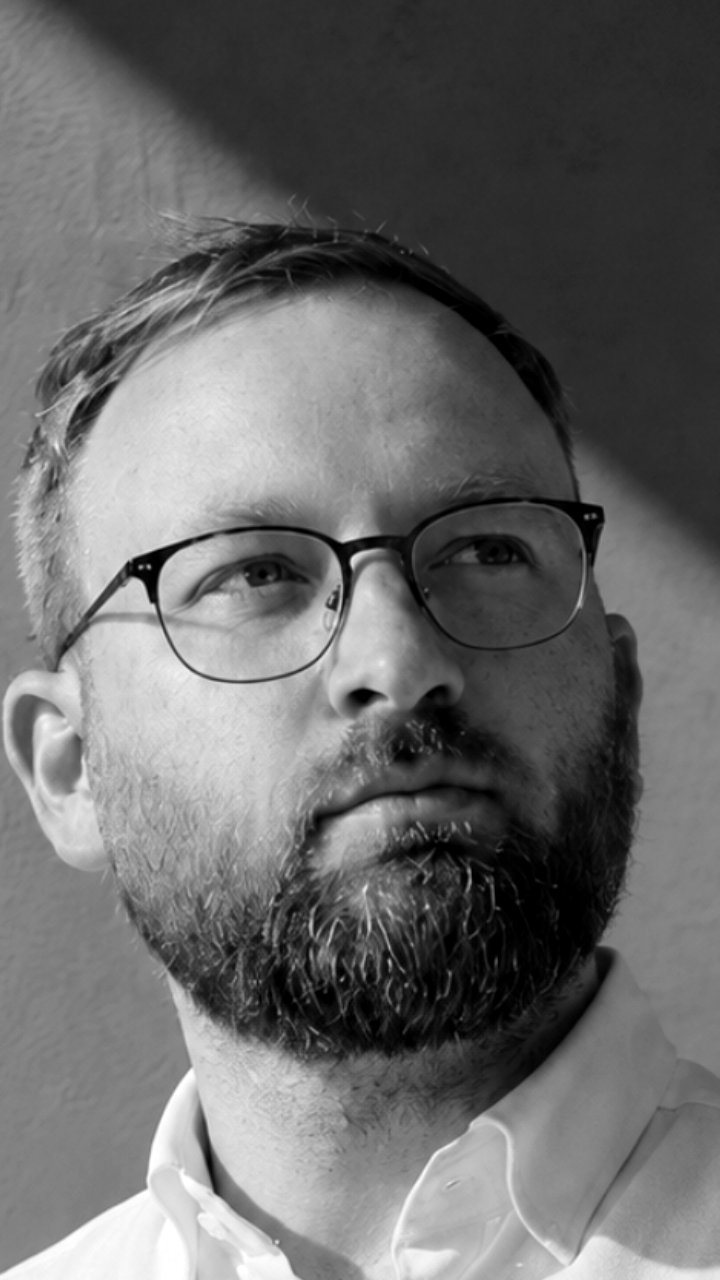
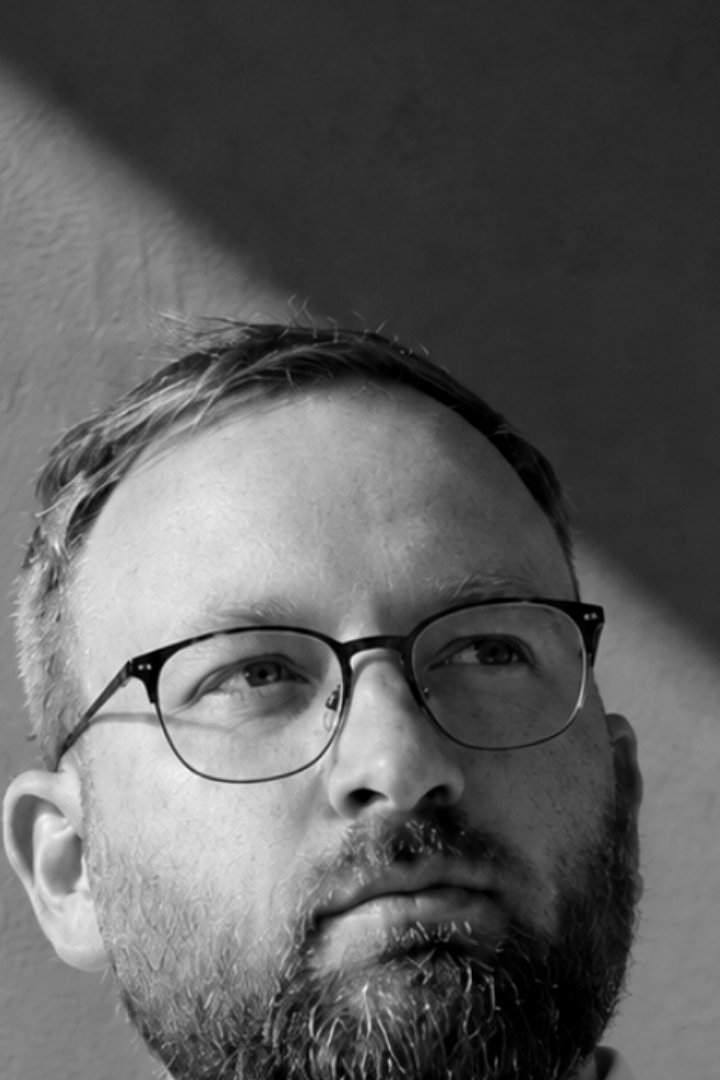
Rebuild the Work hero as a bold bleed-photo composition
Recrop the portrait tighter on the face, bleed it to the page edge
behind the headline, and cap it with a solid accent ledge. Add a
closing caption strip below the hero echoing the reference layout,
and remove a large block of dead CSS left over from earlier hero
iterations (.hero, .hero-layout, .method, .contact, .experience-box,
.tags and friends) that nothing in the markup referenced anymore.

Claude-Session: https://claude.ai/code/session_017bqL8nZXtw5Hbnjdu36omG

diff --git a/styles.css b/styles.css
@@ -16,37 +16,17 @@ nav{display:flex;gap:36px;font-size:14px}
 nav a{padding:12px 0}
 nav a:hover,nav a.active{color:var(--blue)}
 .meta{font:12px/1.5 var(--mono);letter-spacing:.055em;text-transform:uppercase;color:var(--muted)}
-.hero{padding:28px 0 0}
-.hero-top{display:flex;justify-content:space-between;gap:20px;padding-bottom:26px}
-.hero-layout{display:grid;grid-template-columns:minmax(0,.82fr) minmax(0,1.18fr);grid-template-rows:auto auto;gap:0 58px;align-items:start}
-.intro{max-width:520px;font-size:18px;line-height:1.65;color:#50514f;margin:0}
 .actions{display:flex;align-items:center;gap:28px;flex-wrap:wrap;margin-top:28px}
 .button{display:inline-flex;align-items:center;justify-content:space-between;gap:22px;min-height:48px;padding:13px 22px;background:var(--ink);color:white;font-size:14px;transition:background .2s,transform .2s}
 .button:hover{background:var(--blue);transform:translateY(-2px)}
 .text-link{font-size:14px;border-bottom:1px solid #92928d;padding:5px 0}
 .text-link:hover{color:var(--blue);border-color:var(--blue)}
-.hero-caption{display:flex;justify-content:space-between;gap:20px;padding:22px 0 32px;font:12px/1.5 var(--mono);text-transform:uppercase;letter-spacing:.045em}
+.hero-caption{display:flex;justify-content:space-between;gap:20px;border-top:1px solid var(--line);padding:22px 0 32px;font:12px/1.5 var(--mono);text-transform:uppercase;letter-spacing:.045em}
 .hero-caption span:last-child{color:var(--muted)}
 .section{padding:66px 0;border-top:1px solid var(--line)}
 .section-head{display:flex;justify-content:space-between;align-items:baseline;gap:24px;margin-bottom:34px}
 .section-head h2{font-size:clamp(30px,3.4vw,42px);line-height:1.08;letter-spacing:-.045em;font-weight:700;margin:0}
-.index{font:12px/1.5 var(--mono);color:var(--blue);vertical-align:middle;margin-right:28px;letter-spacing:0}
 .small{font-size:14px;color:var(--muted)}
-.experience-box{display:grid;grid-template-columns:.82fr 1.18fr;gap:58px}
-.experience-box h3{font-size:28px;line-height:1.2;letter-spacing:-1px;font-weight:500;margin:0 0 10px}
-.experience-box p{margin:0 0 19px;max-width:610px}
-.tags{display:flex;flex-wrap:wrap;gap:8px;margin-top:28px}
-.tag{font:12px/1.5 var(--mono);border:1px solid #bcbcb7;padding:5px 9px}
-.section-intro{max-width:540px;color:var(--muted);margin:0 0 32px}
-.method{display:grid;grid-template-columns:.82fr 1.18fr;gap:58px}
-.method h3{font:500 49px/1.06 var(--sans);letter-spacing:-2.6px;margin:0;max-width:440px}
-.method h3 span{color:#777770}
-.method p{max-width:610px;margin:0 0 22px}
-.contact{display:grid;grid-template-columns:1.15fr 1fr;gap:65px;padding:0 0 12px}
-.contact h2{font-size:clamp(60px,8vw,110px);font-weight:500;line-height:1;letter-spacing:-.07em;margin:20px 0}
-.contact h2 span{color:var(--accent)}
-.contact p{margin:33px 0 0;font-size:20px;max-width:460px;color:#4b4b48}
-.contact-note{margin-top:24px;padding-top:18px;border-top:1px solid var(--line);font-size:14px;color:var(--muted)}
 .footer{display:flex;justify-content:space-between;gap:20px;padding:25px 0 35px;border-top:1px solid var(--line);font:12px/1.5 var(--mono);color:var(--muted)}
 .footer a:hover{color:var(--blue)}
 .page-hero{padding:40px 0 55px}
@@ -80,9 +60,6 @@ details p{padding-top:17px;margin-bottom:0!important}
 .skip:focus{top:8px}
 @media(min-width:1400px){}
 @media(max-width:1050px) and (min-width:761px){.wrap{padding:0 32px}
-.hero-layout,.experience-box,.method{column-gap:34px}
-.intro{font-size:17px}
-.method h3{font-size:40px}
 }
 @media(max-width:760px){html{scroll-padding-top:90px}
 .wrap{padding:0 22px}
@@ -90,26 +67,13 @@ details p{padding-top:17px;margin-bottom:0!important}
 .wordmark{font-size:27px}
 nav{gap:18px;font-size:14px}
 .preview{font-size:11px;padding:6px 10px}
-.hero{padding-top:23px}
-.hero-top{padding-bottom:20px}
-.hero-top .meta:last-child{display:none}
-.hero-layout{display:flex;flex-direction:column;gap:0}
-.intro{font-size:17px;max-width:530px}
 .actions{gap:20px;margin-top:22px}
 .hero-caption{padding:22px 0 28px;gap:15px;font-size:11px}
 .hero-caption span:last-child{display:none}
-.section{padding:43px 0}
 .section-head{margin-bottom:28px;gap:16px;flex-wrap:wrap}
 .section-head h2{font-size:clamp(28px,7vw,36px);letter-spacing:-.04em}
-.index{margin-right:16px}
 .section-head .small{font-size:13px}
-.experience-box,.method,.contact,.detail-layout{grid-template-columns:1fr;gap:28px}
-.experience-box h3{font-size:26px}
-.tags{margin-top:18px}
-.method h3{font-size:43px;line-height:1.06}
-.contact{gap:8px}
-.contact h2{font-size:80px;margin:18px 0}
-.contact p{font-size:18px;margin-top:0}
+.detail-layout{grid-template-columns:1fr;gap:28px}
 .footer{flex-wrap:wrap;font-size:11px}
 .page-hero{padding:30px 0}
 .back{margin-bottom:32px}
@@ -127,71 +91,25 @@ nav{gap:18px;font-size:14px}
 .nav{gap:13px}
 .wordmark{font-size:25px}
 nav{gap:12px;font-size:13px}
+.work-portrait{margin:0 -17px;width:calc(100% + 34px)}
 }
 @media(prefers-reduced-motion:reduce){html{scroll-behavior:auto}
 *{transition:none!important;animation:none!important}
 }
 
 
-/* Text-only hero: typography carries the composition. */
-.hero { padding-top: 30px; }
-
-.hero-top { padding-bottom: 38px; }
-
-.hero-layout { display: grid; grid-template-columns: minmax(0, 1.15fr) minmax(0, 1fr); gap: 65px; align-items: center; padding: 32px 0 76px; }
-
-.hero h1 { font-size: clamp(5.3rem, 11.8vw, 10.3rem); font-weight: 800; letter-spacing: -.075em; line-height: .91; margin: 0; }
-
-.hero .period { color: var(--accent); }
-
-.hero-copy { padding-top: 28px; }
-
-.hero-copy h2 { font-size: clamp(1.7rem, 2.6vw, 2.65rem); font-weight: 700; letter-spacing: -.045em; line-height: 1.18; margin: 0 0 24px; }
-
-.hero-copy .intro { max-width: 460px; font-size: 19px; }
-
-.hero-caption { border-top: 1px solid var(--line); padding: 18px 0 25px; }
-
-@media (max-width: 1050px) and (min-width: 761px) {
- .hero-layout { gap: 36px; grid-template-columns: minmax(0, 1.15fr) minmax(0, 1fr); }
-
- .hero h1 { font-size: clamp(5.3rem, 11.8vw, 8rem); }
-
- .hero-copy .intro { font-size: 17px; }
-
- .hero-copy .actions { gap: 18px; }
-
-}
-
-@media (max-width: 760px) {
- .hero { padding-top: 22px; }
-
- .hero-top { padding-bottom: 28px; }
-
- .hero-layout { display: grid; grid-template-columns: minmax(0, 1fr); gap: 32px; padding: 10px 0 38px; }
-
- .hero h1 { font-size: clamp(4.75rem, 18.2vw, 8.3rem); line-height: .96; }
-
- .hero-copy { padding: 0; }
-
- .hero-copy h2 { font-size: clamp(1.75rem, 5vw, 2.4rem); margin-bottom: 18px; }
-
- .hero-copy .intro { font-size: 17px; }
-
- .hero-caption { padding: 18px 0 22px; }
-
-}
-
-
-/* Work: career overview and progressively disclosed roles. */
+/* Work: bleed portrait hero, career overview and progressively disclosed roles. */
+.work-hero{padding-bottom:0}
 .work-hero .period{color:var(--accent)}
-.work-hero-grid{display:grid;grid-template-columns:minmax(0,270px) minmax(0,1fr);gap:clamp(32px,5vw,64px);align-items:start}
-.work-portrait{position:relative;margin:0;aspect-ratio:9/16;overflow:hidden;background:var(--ink)}
+.work-hero h1{font-size:clamp(48px,6.4vw,92px)}
+.work-hero-grid{display:grid;grid-template-columns:minmax(0,44%) minmax(0,1fr);gap:clamp(36px,5vw,64px);align-items:end;margin-bottom:8px}
+.work-portrait{position:relative;margin:0 0 0 -56px;width:calc(100% + 56px);aspect-ratio:2/3;overflow:hidden;background:var(--ink)}
 .work-portrait img{display:block;width:100%;height:100%;object-fit:cover}
-.work-portrait::after{content:"";position:absolute;left:0;bottom:0;width:22px;height:22px;background:var(--accent)}
-.work-hero-content{min-width:0}
+.work-portrait::after{content:"";position:absolute;left:0;right:0;bottom:0;height:16px;background:var(--accent)}
+.work-hero-content{min-width:0;padding-bottom:6px}
 .work-hero .work-title{font-size:22px;font-weight:600;letter-spacing:-.5px;margin:32px 0 12px}
 .work-hero .lede{font-size:20px;max-width:810px;margin-top:0}
+.work-hero .hero-caption{margin-top:36px}
 .stat-cards{display:grid;grid-template-columns:repeat(3,minmax(0,1fr));gap:16px;margin-bottom:70px}
 .stat-card{background:#fff;padding:28px 26px 30px;box-shadow:0 1px 2px rgba(33,33,33,.05),0 8px 16px -10px rgba(33,33,33,.18)}
 .stat-card strong{display:block;font-size:clamp(38px,3.6vw,50px);font-weight:700;line-height:1.1;letter-spacing:-.05em;margin-bottom:14px}
@@ -289,8 +207,9 @@ details.job:hover .job-toggle{background:var(--accent);border-color:var(--accent
 .education-rows>div{display:grid;grid-template-columns:130px 1fr;gap:20px;padding:16px 0;border-top:1px solid var(--line)}
 .education-rows p{margin:0;font-size:16px}
 @media(max-width:850px){.work-section .section-head h2{font-size:clamp(28px,5vw,40px)}.card-grid,.card-grid--three{grid-template-columns:1fr}}
-@media(max-width:760px){.work-hero-grid{grid-template-columns:1fr;gap:24px}
-.work-portrait{width:150px;aspect-ratio:9/16}
+@media(max-width:1050px) and (min-width:761px){.work-portrait{margin-left:-32px;width:calc(100% + 32px)}}
+@media(max-width:760px){.work-hero-grid{grid-template-columns:1fr;gap:20px;align-items:stretch}
+.work-portrait{margin:0 -22px;width:calc(100% + 44px);aspect-ratio:5/4}
 }
 @media(max-width:600px){
 .work-hero h1{font-size:clamp(40px,9.5vw,56px)}

diff --git a/experience/index.html b/experience/index.html
@@ -23,7 +23,7 @@
 <section class="page-hero work-hero" aria-labelledby="page-title">
 <a class="back" href="../">← Back to home</a>
 <div class="work-hero-grid">
-<figure class="work-portrait"><img src="./portrait.jpg" width="720" height="1280" alt="Stas Hrytsko" loading="eager"></figure>
+<figure class="work-portrait"><img src="./portrait.jpg" width="720" height="1080" alt="Stas Hrytsko" loading="eager"></figure>
 <div class="work-hero-content">
 <h1 id="page-title">Complex programmes.<br>Shared outcomes<span class="period">.</span></h1>
 <p class="work-title">Technical Program &amp; Delivery Manager</p>
@@ -31,6 +31,7 @@
 <div class="actions"><a class="button" href="#career">Explore my career <span aria-hidden="true">↓</span></a><a class="text-link" href="https://www.linkedin.com/in/stas-hrytsko/" target="_blank" rel="noopener noreferrer">LinkedIn profile ↗</a><span class="small">Valencia, Spain</span></div>
 </div>
 </div>
+<div class="hero-caption"><span>Technical delivery, end to end.</span><span>Regulated markets · FinTech · Digital assets</span></div>
 </section>
 
 <div class="stat-cards" aria-label="Current delivery scope">

diff --git a/README.md b/README.md
@@ -27,7 +27,7 @@ Open http://localhost:8000. Any static HTTP server will work.
 
 ## Content and design
 
-A quiet, compact homepage inspired by the clarity of Julie Zhuo’s personal introduction. Palette: `#ededeb` background, `#212121` near-black, `#e8673d` accent. Typography uses a system grotesk stack (Inter first, then Helvetica Neue / Segoe UI / system UI) with a monospace stack for small labels, so nothing is downloaded. No portrait photos, generated illustrations, raster image assets, external fonts, JavaScript dependencies, or remote services.
+A quiet, compact homepage inspired by the clarity of Julie Zhuo’s personal introduction. Palette: `#ededeb` background, `#212121` near-black, `#e8673d` accent. Typography uses a system grotesk stack (Inter first, then Helvetica Neue / Segoe UI / system UI) with a monospace stack for small labels, so nothing is downloaded. The Work page carries a black-and-white portrait; no other generated illustrations, raster image assets, external fonts, JavaScript dependencies, or remote services.
 
 All site copy is English. Project pages are marked as concept previews. Work content is based on supplied LinkedIn screenshots, with a verified profile URL. Detailed career cases, project stages, direct credential URLs and the Bayer recommendation document still need to be supplied; this prototype does not claim completed releases. Products is intentionally absent until there are released works.
 
